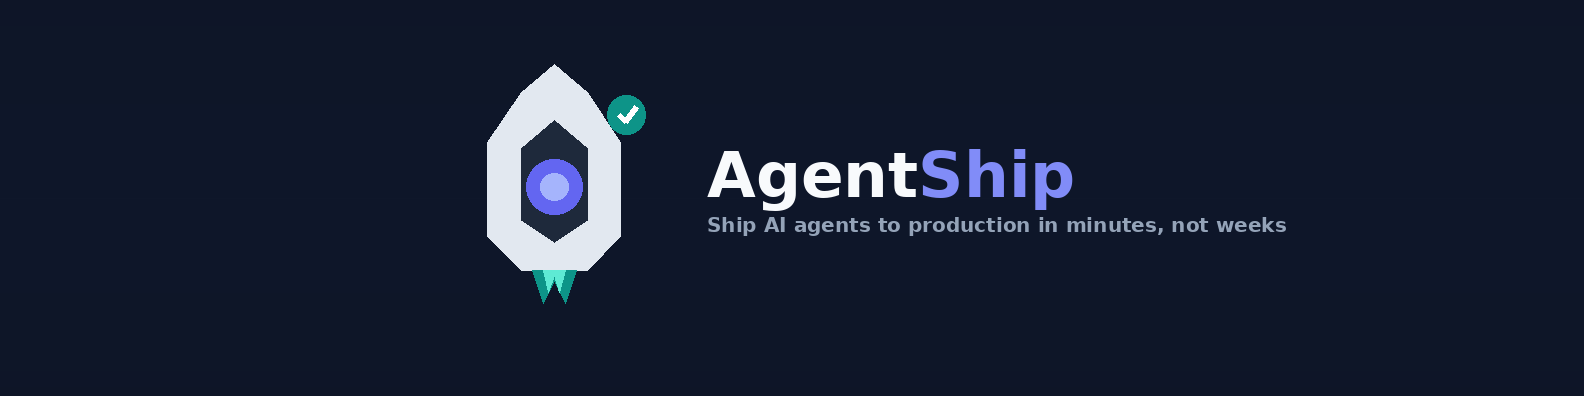
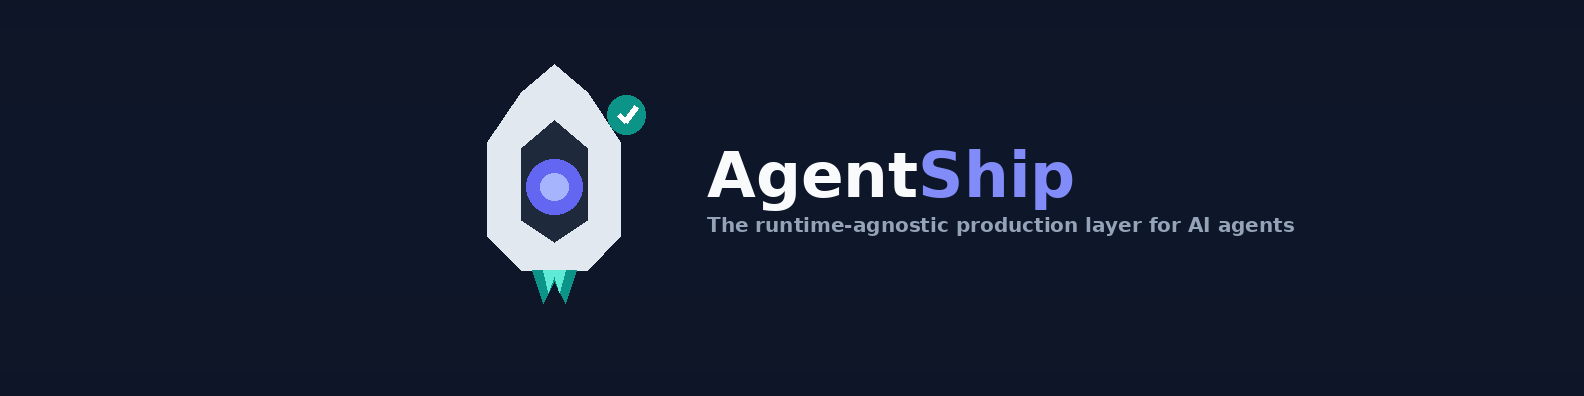
Update branding and README

Changed region(s): [[0.4331, 0.5455, 0.8352, 0.6061]]

diff --git a/README.md b/README.md
@@ -1,8 +1,6 @@
 <p align="center">
-  <img src="branding/banners/github-banner@3x.png" alt="AgentShip" width="100%">
+  <img src="branding/banners/github-readme-banner@3x.png" alt="AgentShip – The runtime-agnostic production layer for AI agents" width="100%">
 </p>
-
-<h3 align="center">The runtime-agnostic production layer for AI agents.</h3>
 
 <p align="center">
   Write your agent once. Run it on ADK, LangGraph, or any future engine.<br>
@@ -25,27 +23,15 @@
 
 Every team building AI agents hits the same two walls.
 
-**Wall 1 — Production plumbing.** Your agent works in the notebook. Shipping it means building a REST API, wiring PostgreSQL session storage, setting up observability, writing Docker configs, handling streaming with error handling. That's ~2,000 lines of infrastructure code and two weeks of work that has nothing to do with what your agent actually does. And you rebuild it from scratch for every agent.
+**Wall 1 – Production plumbing.** Your agent works in the notebook. Shipping it means building a REST API, wiring PostgreSQL session storage, setting up observability, writing Docker configs, handling streaming with error handling. That's ~2,000 lines of infrastructure code and two weeks of work that has nothing to do with what your agent actually does. And you rebuild it from scratch for every agent.
 
-**Wall 2 — Framework lock-in.** You pick ADK or LangGraph on day one and build deep. Three months later you need a capability from the other one. Migration cost: 3–6 months, 50–80% of your code rewritten. Architecture decisions made at the start compound into permanent constraints.
+**Wall 2 – Framework lock-in.** You pick ADK or LangGraph on day one and build deep. Three months later you need a capability from the other one. Migration cost: 3–6 months, 50–80% of your code rewritten. Architecture decisions made at the start compound into permanent constraints.
 
-```
-Without AgentShip:          Your Agent Logic
-                                  ↕  tightly coupled
-                             LangGraph / ADK / CrewAI
-                                  ↕  tightly coupled
-                            Memory · Observability · Tools
+> AgentShip is **LiteLLM for agent runtimes** – one interface to run your agents on ADK, LangGraph, or any future engine, plus the production stack (API, sessions, streaming, observability, MCP) that no engine ships with.
 
-With AgentShip:             Your Agent Logic (unchanged)
-                                  ↕  talks to abstraction
-                               AgentShip Interface
-                                  ↕  pluggable
-                       ADK  |  LangGraph  |  Future Engines
-                                  ↕  config-driven
-                       Memory  ·  Observability  ·  MCP Tools
-```
-
-> AgentShip is **LiteLLM for agent runtimes** — one interface to run your agents on ADK, LangGraph, or any future engine, plus the production stack (API, sessions, streaming, observability, MCP) that no engine ships with.
+<p align="center">
+  <img src="branding/hero/image.png" alt="AgentShip Architecture" width="100%">
+</p>
 
 ---
 
@@ -56,7 +42,7 @@ With AgentShip:             Your Agent Logic (unchanged)
 | **Engine** | Execution runtime | Google ADK, LangGraph + LiteLLM | `execution_engine:` in YAML |
 | **Memory** | Short + long-term storage | mem0, Supermemory, in-memory | `memory_backend:` in YAML |
 | **Observability** | Tracing & monitoring | Opik, LangFuse | `observability:` in YAML |
-| **Tools** | Discovery & invocation | MCP — STDIO and HTTP/OAuth | `mcp.servers:` in YAML |
+| **Tools** | Discovery & invocation | MCP – STDIO and HTTP/OAuth | `mcp.servers:` in YAML |
 
 Your agent code never touches these directly. It talks to the abstractions. Swap any layer without a rewrite.
 
@@ -106,7 +92,7 @@ agent_name: my_agent
 llm_provider_name: openai
 llm_model: gpt-4o
 temperature: 0.4
-execution_engine: adk        # change to langgraph — class below is unchanged
+execution_engine: adk        # change to langgraph – class below is unchanged
 description: A helpful assistant
 instruction_template: |
   You are a helpful assistant that answers questions clearly.
@@ -127,7 +113,7 @@ class MyAgent(BaseAgent):
         )
 ```
 
-Restart the server — the agent is auto-discovered. No registration step.
+Restart the server – the agent is auto-discovered. No registration step.
 
 ---
 
@@ -139,8 +125,8 @@ AgentShip has production-ready MCP integration across both engines. Declare the 
 # main_agent.yaml
 mcp:
   servers:
-    - postgres   # STDIO — shared client, env-var connection string
-    - github     # HTTP/OAuth — per-agent isolated client
+    - postgres   # STDIO – shared client, env-var connection string
+    - github     # HTTP/OAuth – per-agent isolated client
 ```
 
 AgentShip connects at startup, fetches tool schemas, and automatically injects LLM-readable documentation into the agent's system prompt. Zero manual work.
@@ -148,7 +134,7 @@ AgentShip connects at startup, fetches tool schemas, and automatically injects L
 <details>
 <summary><strong>MCP server configuration reference</strong></summary>
 
-**`.mcp.settings.json`** — define servers once, reference by name in any agent YAML:
+**`.mcp.settings.json`** – define servers once, reference by name in any agent YAML:
 
 ```json
 {
@@ -201,7 +187,7 @@ AgentShip connects at startup, fetches tool schemas, and automatically injects L
 
 ## Example agents
 
-The GitHub and PostgreSQL pairs are the clearest demonstration of runtime-agnostic design — identical capability, different engine.
+The GitHub and PostgreSQL pairs are the clearest demonstration of runtime-agnostic design – identical capability, different engine.
 
 | Agent | Demonstrates |
 |---|---|
@@ -212,7 +198,7 @@ The GitHub and PostgreSQL pairs are the clearest demonstration of runtime-agnost
 | [`postgres_adk_mcp_agent/`](src/all_agents/postgres_adk_mcp_agent/) | STDIO MCP · ADK engine |
 | [`postgres_langgraph_mcp_agent/`](src/all_agents/postgres_langgraph_mcp_agent/) | STDIO MCP · LangGraph engine |
 | [`github_adk_mcp_agent/`](src/all_agents/github_adk_mcp_agent/) | HTTP/OAuth MCP · ADK engine |
-| [`github_langgraph_mcp_agent/`](src/all_agents/github_langgraph_mcp_agent/) | HTTP/OAuth MCP · LangGraph engine — **engine swap demo** |
+| [`github_langgraph_mcp_agent/`](src/all_agents/github_langgraph_mcp_agent/) | HTTP/OAuth MCP · LangGraph engine – **engine swap demo** |
 
 ---
 
@@ -269,7 +255,7 @@ pipenv run pytest tests/integration/test_streaming.py -v
 |---|---|---|---|
 | Docker | `make docker-up` | `postgres` (service name) | `5432` internal · `5433` external |
 | Local | `make dev` | `localhost` | `5432` |
-| Heroku | auto-provisioned | `DATABASE_URL` env var | — |
+| Heroku | auto-provisioned | `DATABASE_URL` env var | - |
 
 Docker containers communicate via service names, not `localhost`. The `docker-compose.yml` overrides `AGENT_SESSION_STORE_URI` automatically.
 
@@ -291,10 +277,10 @@ Docker containers communicate via service names, not `localhost`. The `docker-co
 
 The most valuable contributions are new implementations of the four pluggable layers:
 
-- **New engines** — OpenAI Agents SDK, CrewAI, Autogen adapters
-- **New memory backends** — Zep, Pinecone, custom vector stores
-- **New observability backends** — LangFuse, custom tracing integrations
-- **New MCP transports** — additional protocol implementations
+- **New engines** – OpenAI Agents SDK, CrewAI, Autogen adapters
+- **New memory backends** – Zep, Pinecone, custom vector stores
+- **New observability backends** – LangFuse, custom tracing integrations
+- **New MCP transports** – additional protocol implementations
 
 Check [`good first issue`](https://github.com/Agent-Ship/agent-ship/labels/good%20first%20issue), read [`CLAUDE.md`](CLAUDE.md) for the developer guide, then:
 
